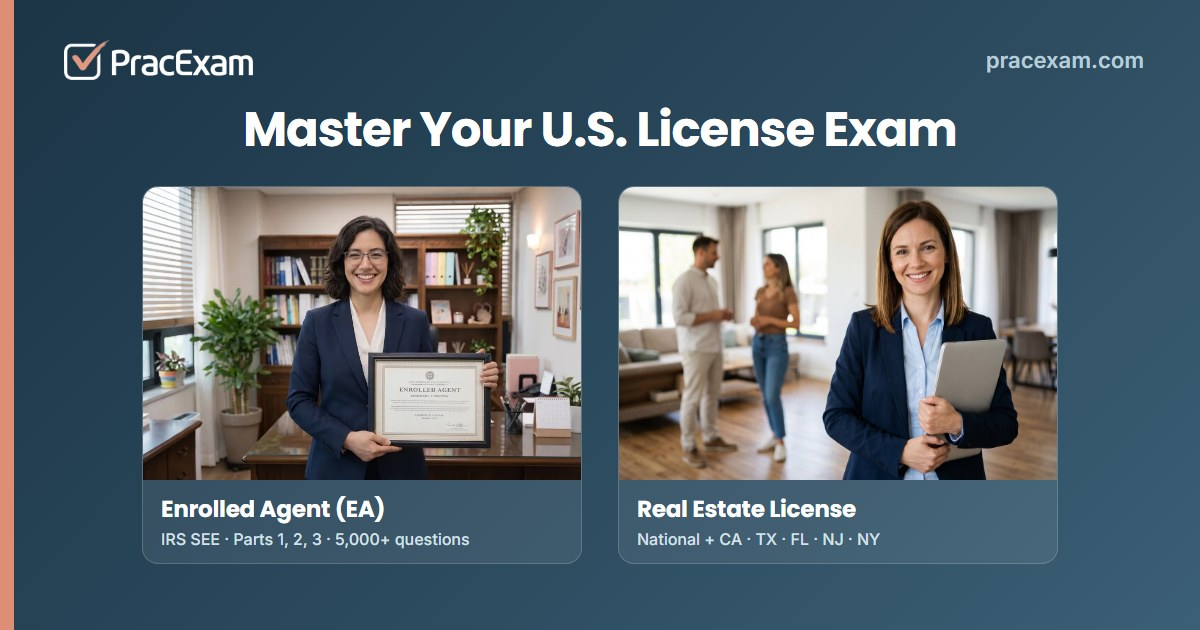
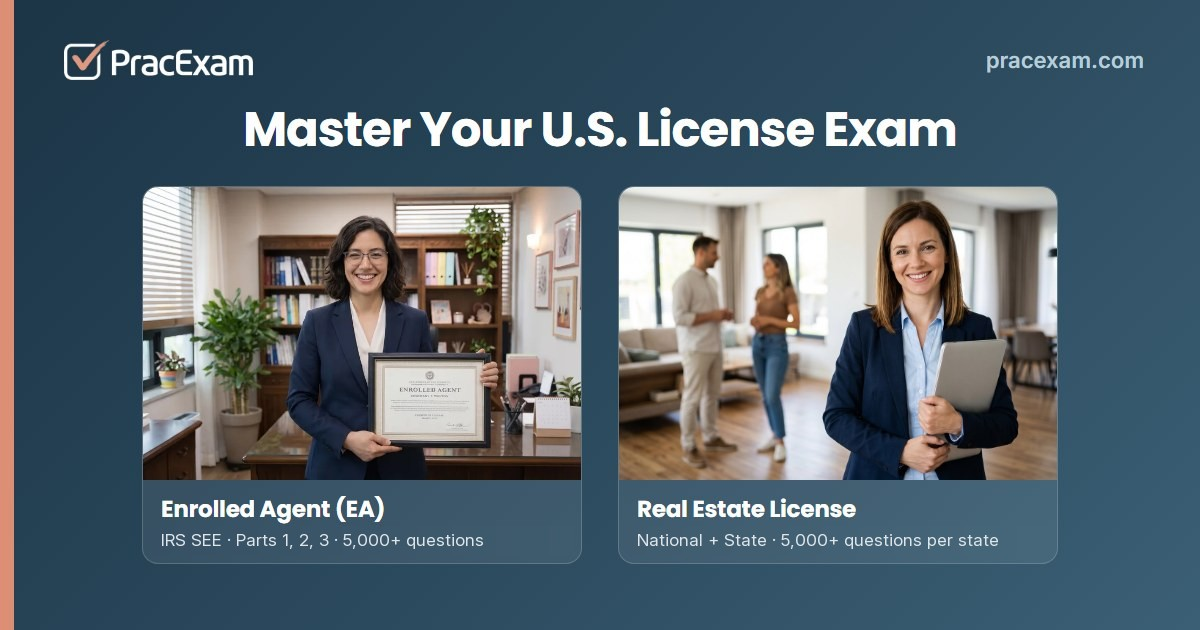
Share images (boss): hero-style IRS Tax Tip images (EN/KO), new og-image.png (man at the desk, «Master the Enrolled Agent Exam / Your Ultimate PSI-style Exam Finisher»), hub RE line «National + State» without a state list, Study Tips lists use og-ea.jpg; ?v= bumps so Facebook refetches

Changed region(s): [[0.5242, 0.8444, 0.8325, 0.8746], [0.1233, 0.8444, 0.4008, 0.8746]]

diff --git a/tips/ko/index.html b/tips/ko/index.html
@@ -1,4 +1,4 @@
-<!doctype html><html lang="ko"><head><meta charset="utf-8"><meta name="viewport" content="width=device-width, initial-scale=1.0"><title>Study Tips — 미국 세무사, Enrolled Agent · EA 시험 가이드 | PracExam</title><meta name="description" content="미국 세무사, Enrolled Agent · EA 시험이 어떻게 짜여 있고 어떻게 준비해야 하는지, IRS 출제범위를 바탕으로 짧게 적은 글 모음."><link rel="canonical" href="https://pracexam.com/tips/ko/"><link rel="alternate" hreflang="en" href="https://pracexam.com/tips/"><link rel="alternate" hreflang="ko" href="https://pracexam.com/tips/ko/"><link rel="alternate" hreflang="x-default" href="https://pracexam.com/tips/"><meta property="og:type" content="website"><meta property="og:title" content="Study Tips — 미국 세무사, Enrolled Agent · EA 시험 가이드 | PracExam"><meta property="og:description" content="미국 세무사, Enrolled Agent · EA 시험이 어떻게 짜여 있고 어떻게 준비해야 하는지, IRS 출제범위를 바탕으로 짧게 적은 글 모음."><meta property="og:url" content="https://pracexam.com/tips/ko/"><meta property="og:locale" content="ko_KR"><meta property="og:image" content="https://pracexam.com/tips/img/PracExam_PSI_Trend_ko.png"><meta property="og:site_name" content="PracExam"><meta name="twitter:card" content="summary_large_image"><meta name="twitter:title" content="Study Tips — 미국 세무사, Enrolled Agent · EA 시험 가이드 | PracExam"><meta name="twitter:description" content="미국 세무사, Enrolled Agent · EA 시험이 어떻게 짜여 있고 어떻게 준비해야 하는지, IRS 출제범위를 바탕으로 짧게 적은 글 모음."><meta name="twitter:image" content="https://pracexam.com/tips/img/PracExam_PSI_Trend_ko.png"><link rel="icon" href="/favicon.ico"><link rel="preconnect" href="https://fonts.googleapis.com"><link rel="preconnect" href="https://fonts.gstatic.com" crossorigin><link href="https://fonts.googleapis.com/css2?family=DM+Serif+Display&family=Inter:wght@400;600;700;800&family=Poppins:wght@600;700;800&family=Noto+Sans+KR:wght@400;500;700;800&display=swap" rel="stylesheet"><style>/* 🔴 손으로 고치지 말 것 — `node build_site.js` 가 만듭니다. */
+<!doctype html><html lang="ko"><head><meta charset="utf-8"><meta name="viewport" content="width=device-width, initial-scale=1.0"><title>Study Tips — 미국 세무사, Enrolled Agent · EA 시험 가이드 | PracExam</title><meta name="description" content="미국 세무사, Enrolled Agent · EA 시험이 어떻게 짜여 있고 어떻게 준비해야 하는지, IRS 출제범위를 바탕으로 짧게 적은 글 모음."><link rel="canonical" href="https://pracexam.com/tips/ko/"><link rel="alternate" hreflang="en" href="https://pracexam.com/tips/"><link rel="alternate" hreflang="ko" href="https://pracexam.com/tips/ko/"><link rel="alternate" hreflang="x-default" href="https://pracexam.com/tips/"><meta property="og:type" content="website"><meta property="og:title" content="Study Tips — 미국 세무사, Enrolled Agent · EA 시험 가이드 | PracExam"><meta property="og:description" content="미국 세무사, Enrolled Agent · EA 시험이 어떻게 짜여 있고 어떻게 준비해야 하는지, IRS 출제범위를 바탕으로 짧게 적은 글 모음."><meta property="og:url" content="https://pracexam.com/tips/ko/"><meta property="og:locale" content="ko_KR"><meta property="og:image" content="https://pracexam.com/og-ea.jpg?v=1"><meta property="og:site_name" content="PracExam"><meta name="twitter:card" content="summary_large_image"><meta name="twitter:title" content="Study Tips — 미국 세무사, Enrolled Agent · EA 시험 가이드 | PracExam"><meta name="twitter:description" content="미국 세무사, Enrolled Agent · EA 시험이 어떻게 짜여 있고 어떻게 준비해야 하는지, IRS 출제범위를 바탕으로 짧게 적은 글 모음."><meta name="twitter:image" content="https://pracexam.com/og-ea.jpg?v=1"><link rel="icon" href="/favicon.ico"><link rel="preconnect" href="https://fonts.googleapis.com"><link rel="preconnect" href="https://fonts.gstatic.com" crossorigin><link href="https://fonts.googleapis.com/css2?family=DM+Serif+Display&family=Inter:wght@400;600;700;800&family=Poppins:wght@600;700;800&family=Noto+Sans+KR:wght@400;500;700;800&display=swap" rel="stylesheet"><style>/* 🔴 손으로 고치지 말 것 — `node build_site.js` 가 만듭니다. */
 :root{/* Harbor 팔레트 (2026-06-19) — 354649 / 6C7A89 / A3C6C4 / E0E7E9 */
   --page-bg:     #E0E7E9;
   --card-bg:     #ffffff;

diff --git a/tips/index.html b/tips/index.html
@@ -1,4 +1,4 @@
-<!doctype html><html lang="en"><head><meta charset="utf-8"><meta name="viewport" content="width=device-width, initial-scale=1.0"><title>Study Tips — EA &amp; Enrolled Agent Exam Study Notes | PracExam</title><meta name="description" content="Short reads on how the Enrolled Agent (EA) exam is built and how to prepare for it — what the IRS Content Outline says, and what changes each window."><link rel="canonical" href="https://pracexam.com/tips/"><link rel="alternate" hreflang="en" href="https://pracexam.com/tips/"><link rel="alternate" hreflang="ko" href="https://pracexam.com/tips/ko/"><link rel="alternate" hreflang="x-default" href="https://pracexam.com/tips/"><meta property="og:type" content="website"><meta property="og:title" content="Study Tips — EA &amp;amp; Enrolled Agent Exam Study Notes | PracExam"><meta property="og:description" content="Short reads on how the Enrolled Agent (EA) exam is built and how to prepare for it — what the IRS Content Outline says, and what changes each window."><meta property="og:url" content="https://pracexam.com/tips/"><meta property="og:locale" content="en_US"><meta property="og:image" content="https://pracexam.com/tips/img/PracExam_PSI_Trend_en.png"><meta property="og:site_name" content="PracExam"><meta name="twitter:card" content="summary_large_image"><meta name="twitter:title" content="Study Tips — EA &amp;amp; Enrolled Agent Exam Study Notes | PracExam"><meta name="twitter:description" content="Short reads on how the Enrolled Agent (EA) exam is built and how to prepare for it — what the IRS Content Outline says, and what changes each window."><meta name="twitter:image" content="https://pracexam.com/tips/img/PracExam_PSI_Trend_en.png"><link rel="icon" href="/favicon.ico"><link rel="preconnect" href="https://fonts.googleapis.com"><link rel="preconnect" href="https://fonts.gstatic.com" crossorigin><link href="https://fonts.googleapis.com/css2?family=DM+Serif+Display&family=Inter:wght@400;600;700;800&family=Poppins:wght@600;700;800&display=swap" rel="stylesheet"><style>/* 🔴 손으로 고치지 말 것 — `node build_site.js` 가 만듭니다. */
+<!doctype html><html lang="en"><head><meta charset="utf-8"><meta name="viewport" content="width=device-width, initial-scale=1.0"><title>Study Tips — EA &amp; Enrolled Agent Exam Study Notes | PracExam</title><meta name="description" content="Short reads on how the Enrolled Agent (EA) exam is built and how to prepare for it — what the IRS Content Outline says, and what changes each window."><link rel="canonical" href="https://pracexam.com/tips/"><link rel="alternate" hreflang="en" href="https://pracexam.com/tips/"><link rel="alternate" hreflang="ko" href="https://pracexam.com/tips/ko/"><link rel="alternate" hreflang="x-default" href="https://pracexam.com/tips/"><meta property="og:type" content="website"><meta property="og:title" content="Study Tips — EA &amp;amp; Enrolled Agent Exam Study Notes | PracExam"><meta property="og:description" content="Short reads on how the Enrolled Agent (EA) exam is built and how to prepare for it — what the IRS Content Outline says, and what changes each window."><meta property="og:url" content="https://pracexam.com/tips/"><meta property="og:locale" content="en_US"><meta property="og:image" content="https://pracexam.com/og-ea.jpg?v=1"><meta property="og:site_name" content="PracExam"><meta name="twitter:card" content="summary_large_image"><meta name="twitter:title" content="Study Tips — EA &amp;amp; Enrolled Agent Exam Study Notes | PracExam"><meta name="twitter:description" content="Short reads on how the Enrolled Agent (EA) exam is built and how to prepare for it — what the IRS Content Outline says, and what changes each window."><meta name="twitter:image" content="https://pracexam.com/og-ea.jpg?v=1"><link rel="icon" href="/favicon.ico"><link rel="preconnect" href="https://fonts.googleapis.com"><link rel="preconnect" href="https://fonts.gstatic.com" crossorigin><link href="https://fonts.googleapis.com/css2?family=DM+Serif+Display&family=Inter:wght@400;600;700;800&family=Poppins:wght@600;700;800&display=swap" rel="stylesheet"><style>/* 🔴 손으로 고치지 말 것 — `node build_site.js` 가 만듭니다. */
 :root{/* Harbor 팔레트 (2026-06-19) — 354649 / 6C7A89 / A3C6C4 / E0E7E9 */
   --page-bg:     #E0E7E9;
   --card-bg:     #ffffff;

diff --git a/functions/_middleware.js b/functions/_middleware.js
@@ -518,7 +518,7 @@ async function irsNews(context, p) {
       + '<p class="nw-more"><a href="' + nwPath(lang, "") + '">' + nwEsc(L.more) + " &rarr;</a></p></div>";
     ld = { "@context": "https://schema.org", "@type": "Article", headline: head.slice(0, 110), description: desc, inLanguage: lang,
       datePublished: row.issue_date, dateModified: String(row.updated_at || row.created_at || row.issue_date).slice(0, 10),
-      url: selfUrl, mainEntityOfPage: selfUrl, image: "https://pracexam.com/og-image.png",
+      url: selfUrl, mainEntityOfPage: selfUrl, image: "https://pracexam.com/og-taxtip-" + lang + ".jpg?v=20261116b",
       author: { "@type": "Organization", name: "PracExam", url: "https://pracexam.com/" },
       publisher: { "@type": "Organization", name: "PracExam", url: "https://pracexam.com/", logo: { "@type": "ImageObject", url: "https://pracexam.com/apple-touch-icon.png" } },
       isBasedOn: nwSources(row.html), about: ["IRS Tax Tips", "Enrolled Agent exam"] };
@@ -568,6 +568,8 @@ async function irsNews(context, p) {
     .on('meta[property="og:title"]', new MetaRewriter(title))
     .on('meta[property="og:description"]', new MetaRewriter(desc))
     .on('meta[property="og:url"]', new MetaRewriter(selfUrl))
+    .on('meta[property="og:image"]', new MetaRewriter("https://pracexam.com/og-taxtip-" + lang + ".jpg?v=20261116b"))
+    .on('meta[name="twitter:image"]', new MetaRewriter("https://pracexam.com/og-taxtip-" + lang + ".jpg?v=20261116b"))
     .on('meta[property="og:locale"]', new MetaRewriter(L.locale))
     .on('meta[property="og:locale:alternate"]', new MetaRewriter(lang === "ko" ? "en_US" : "ko_KR"))
     .on('meta[name="twitter:title"]', new MetaRewriter(title))

diff --git a/index.html b/index.html
@@ -77,7 +77,7 @@
 <meta property="og:url" content="https://pracexam.com/">
 <meta property="og:title" content="PracExam | EA, Enrolled Agent &amp; Real Estate Agent License Exam Practice Questions">
 <meta property="og:description" content="PracExam is a next-generation exam prep platform and online question bank for two U.S. licensing exams: the IRS Enrolled Agent, EA exam and the real estate agent, broker license exam (national plus state). Pick your exam and start practicing.">
-<meta property="og:image" content="https://pracexam.com/og-hub.jpg?v=3">
+<meta property="og:image" content="https://pracexam.com/og-hub.jpg?v=4">
 <meta property="og:image:width" content="1200">
 <meta property="og:image:height" content="630">
 <meta property="og:locale" content="en_US">
@@ -85,7 +85,7 @@
 <meta name="twitter:card" content="summary_large_image">
 <meta name="twitter:title" content="PracExam | EA, Enrolled Agent &amp; Real Estate Agent License Exam Practice Questions">
 <meta name="twitter:description" content="PracExam is a next-generation exam prep platform and online question bank for two U.S. licensing exams: the IRS Enrolled Agent, EA exam and the real estate agent, broker license exam (national plus state). Pick your exam and start practicing.">
-<meta name="twitter:image" content="https://pracexam.com/og-hub.jpg?v=3">
+<meta name="twitter:image" content="https://pracexam.com/og-hub.jpg?v=4">
 
 <script type="application/ld+json">
 {

diff --git a/ea/exam-tips/index.html b/ea/exam-tips/index.html
@@ -34,7 +34,7 @@
 <meta property="og:url" content="https://pracexam.com/ea/exam-tips/">
 <meta property="og:title" content="Enrolled Agent EA Exam Tips | PracExam">
 <meta property="og:description" content="What the Enrolled Agent (EA) credential is, who can take the IRS Special Enrollment Examination, exam format, fees, exam day and what comes after you pass.">
-<meta property="og:image" content="https://pracexam.com/og-image.png">
+<meta property="og:image" content="https://pracexam.com/og-image.png?v=2">
 <meta property="og:image:width" content="1200">
 <meta property="og:image:height" content="630">
 <meta property="og:locale" content="en_US">
@@ -42,7 +42,7 @@
 <meta name="twitter:card" content="summary_large_image">
 <meta name="twitter:title" content="Enrolled Agent EA Exam Tips | PracExam">
 <meta name="twitter:description" content="What the Enrolled Agent (EA) credential is, who can take the IRS Special Enrollment Examination, exam format, fees, exam day and what comes after you pass.">
-<meta name="twitter:image" content="https://pracexam.com/og-image.png">
+<meta name="twitter:image" content="https://pracexam.com/og-image.png?v=2">
 <link rel="stylesheet" href="/videos.css">
 <style>
 main.vp-main{max-width:1120px; padding:0 24px; margin:0 auto; flex:1 0 auto; width:100%;}

diff --git a/videos.html b/videos.html
@@ -31,7 +31,7 @@
 <meta property="og:url" content="https://pracexam.com/videos">
 <meta property="og:title" content="Enrolled Agent EA Exam Free Practice Videos | Shorts | PracExam">
 <meta property="og:description" content="Free Enrolled Agent EA exam practice questions explained in short videos (YouTube Shorts). Videos for Parts 1, 2 and 3.">
-<meta property="og:image" content="https://pracexam.com/og-image.png">
+<meta property="og:image" content="https://pracexam.com/og-image.png?v=2">
 <meta property="og:image:width" content="1200">
 <meta property="og:image:height" content="630">
 <meta property="og:locale" content="en_US">
@@ -39,7 +39,7 @@
 <meta name="twitter:card" content="summary_large_image">
 <meta name="twitter:title" content="Enrolled Agent EA Exam Free Practice Videos | Shorts | PracExam">
 <meta name="twitter:description" content="Free Enrolled Agent EA exam practice questions explained in short videos (YouTube Shorts). Videos for Parts 1, 2 and 3.">
-<meta name="twitter:image" content="https://pracexam.com/og-image.png">
+<meta name="twitter:image" content="https://pracexam.com/og-image.png?v=2">
 <link rel="stylesheet" href="videos.css">
 <style>
 main.vp-main{max-width:1120px; padding:0 24px; margin:0 auto; flex:1 0 auto; width:100%;}

diff --git a/ea/irs-news/index.html b/ea/irs-news/index.html
@@ -35,7 +35,7 @@
 <meta property="og:url" content="https://pracexam.com/ea/irs-news/">
 <meta property="og:title" content="IRS Tax Tips Weekly Summary | PracExam">
 <meta property="og:description" content="A plain-English weekly summary of the latest IRS Tax Tips, with a link to each original IRS article. From PracExam, the EA exam prep site.">
-<meta property="og:image" content="https://pracexam.com/og-image.png">
+<meta property="og:image" content="https://pracexam.com/og-image.png?v=2">
 <meta property="og:image:width" content="1200">
 <meta property="og:image:height" content="630">
 <meta property="og:locale" content="en_US">
@@ -43,7 +43,7 @@
 <meta name="twitter:card" content="summary_large_image">
 <meta name="twitter:title" content="IRS Tax Tips Weekly Summary | PracExam">
 <meta name="twitter:description" content="A plain-English weekly summary of the latest IRS Tax Tips, with a link to each original IRS article. From PracExam, the EA exam prep site.">
-<meta name="twitter:image" content="https://pracexam.com/og-image.png">
+<meta name="twitter:image" content="https://pracexam.com/og-image.png?v=2">
 <link rel="stylesheet" href="/videos.css">
 <style>
 main.vp-main{max-width:1120px; padding:0 24px; margin:0 auto; flex:1 0 auto; width:100%;}

diff --git a/ea/reviews/index.html b/ea/reviews/index.html
@@ -35,7 +35,7 @@
 <meta property="og:url" content="https://pracexam.com/ea/reviews/">
 <meta property="og:title" content="EA Exam Prep Reviews | PracExam">
 <meta property="og:description" content="Reviews from PracExam users preparing for the IRS Enrolled Agent (EA) exam: what helped them study and advice for new candidates.">
-<meta property="og:image" content="https://pracexam.com/og-image.png">
+<meta property="og:image" content="https://pracexam.com/og-image.png?v=2">
 <meta property="og:image:width" content="1200">
 <meta property="og:image:height" content="630">
 <meta property="og:locale" content="en_US">
@@ -43,7 +43,7 @@
 <meta name="twitter:card" content="summary_large_image">
 <meta name="twitter:title" content="EA Exam Prep Reviews | PracExam">
 <meta name="twitter:description" content="Reviews from PracExam users preparing for the IRS Enrolled Agent (EA) exam: what helped them study and advice for new candidates.">
-<meta name="twitter:image" content="https://pracexam.com/og-image.png">
+<meta name="twitter:image" content="https://pracexam.com/og-image.png?v=2">
 <link rel="stylesheet" href="/videos.css">
 <style>
 main.vp-main{max-width:1120px; padding:0 24px; margin:0 auto; flex:1 0 auto; width:100%;}

diff --git a/popquiz.html b/popquiz.html
@@ -33,7 +33,7 @@
 <meta property="og:url" content="https://pracexam.com/popquiz">
 <meta property="og:title" content="PracExam Pop Quiz — A Free EA Exam Question, Fully Explained">
 <meta property="og:description" content="A real EA exam-style question, free. Reveal the answer with a full explanation and an exam tip.">
-<meta property="og:image" content="https://pracexam.com/og-image.png">
+<meta property="og:image" content="https://pracexam.com/og-image.png?v=2">
 <meta property="og:image:width" content="1200">
 <meta property="og:image:height" content="630">
 <meta property="og:locale" content="en_US">
@@ -41,7 +41,7 @@
 <meta name="twitter:card" content="summary_large_image">
 <meta name="twitter:title" content="PracExam Pop Quiz — A Free EA Exam Question, Fully Explained">
 <meta name="twitter:description" content="A real EA exam-style question, free. Reveal the answer with a full explanation and an exam tip.">
-<meta name="twitter:image" content="https://pracexam.com/og-image.png">
+<meta name="twitter:image" content="https://pracexam.com/og-image.png?v=2">
 
 <link rel="preconnect" href="https://fonts.googleapis.com">
 <link rel="preconnect" href="https://fonts.gstatic.com" crossorigin>
